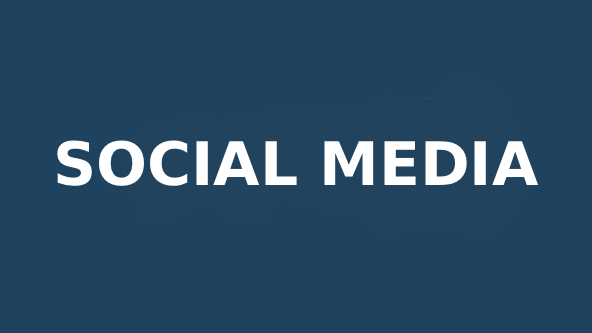
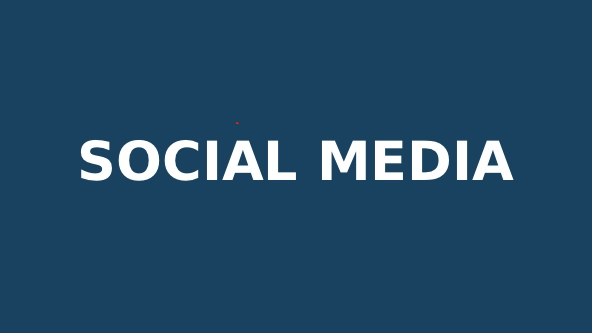
change text size

Changed region(s): [[0.0912, 0.4204, 0.9122, 0.5706]]

diff --git a/README.md b/README.md
@@ -11,3 +11,5 @@ Images (Medium): JPG - 16:9 - 600x333 (cropped if required)
 Images (Small - About): JPG - 4:4 - 300x300 (cropped if required - B&W recoloured)
 
 Images (Logo): PNG - 300px Wide (transparent)
+
+Wording on 'what we do' images - DejaVu Sans Bold 54
